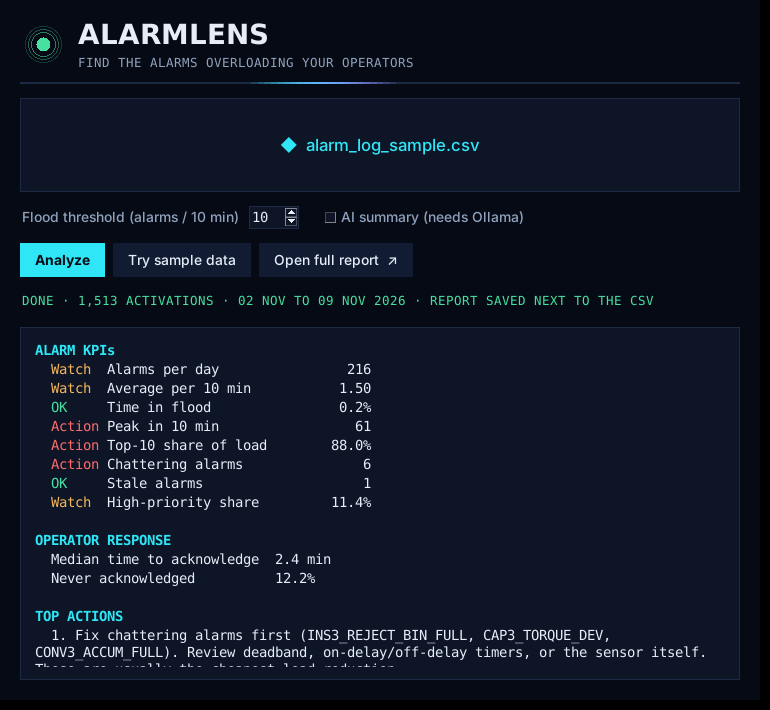
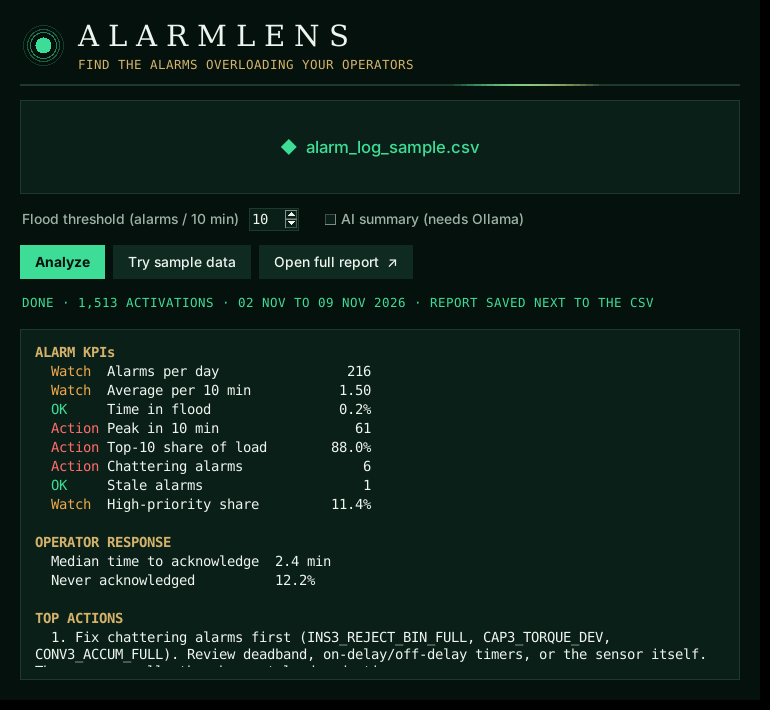
Emerald and gold identity for the window and the HTML report
Claude-Session: https://claude.ai/code/session_016ZLN4KnBmDmkNpjnwT8LnM

diff --git a/sample/sample_report.html b/sample/sample_report.html
@@ -2,9 +2,9 @@
 <html lang="en"><head><meta charset="utf-8"><meta name="viewport" content="width=device-width, initial-scale=1">
 <title>AlarmLens Report</title>
 <style>
-:root{--bg:#f5f7fa;--card:#fff;--line:#d9e0ea;--fg:#14202e;--mu:#5b6b80;--ac:#0a7e93;--ok:#1a7f4b;--warn:#a86400;--bad:#c2362b;
+:root{--bg:#f3f7f4;--card:#fff;--line:#d9e0ea;--fg:#14202e;--mu:#5b6b80;--ac:#0f7a4f;--ok:#1a7f4b;--warn:#a86400;--bad:#c2362b;
 --okb:#e3f4ea;--warnb:#fdf0dc;--badb:#fbe5e3;color-scheme:light}
-@media (prefers-color-scheme:dark){:root{--bg:#0d1420;--card:#141e2e;--line:#26354d;--fg:#e3e9f1;--mu:#8fa0b8;--ac:#2ec9e3;
+@media (prefers-color-scheme:dark){:root{--bg:#04110c;--card:#0a1f17;--line:#1d3a2d;--fg:#e3e9f1;--mu:#9db3a6;--ac:#3ddc97;
 --ok:#4cc985;--warn:#f0b04e;--bad:#f07468;--okb:#13301f;--warnb:#3a2a10;--badb:#3d1917;color-scheme:dark}}
 *{box-sizing:border-box}body{margin:0;background:var(--bg);color:var(--fg);font:15px/1.55 "Segoe UI",system-ui,sans-serif}
 .w{max-width:1000px;margin:0 auto;padding:28px 18px 48px;display:grid;gap:28px}

diff --git a/alarmlens/hud.py b/alarmlens/hud.py
@@ -6,17 +6,19 @@ import math
 import tkinter as tk
 import tkinter.font as tkfont
 
-# palette shared by the apps
-BG = "#060a14"
-PANEL = "#0d1526"
-PANEL2 = "#111c33"
-LINE = "#1c2a44"
-CYAN = "#2ee6f5"
-VIOLET = "#9b7bff"
-TEXT = "#e6edf7"
-MUTED = "#8fa2bd"
-OK = "#46e0a0"
-WARN = "#f5b65a"
+# palette shared by the apps: emerald and champagne gold on deep forest black
+BG = "#04110c"
+PANEL = "#0a1f17"
+PANEL2 = "#0f2a20"
+LINE = "#1d3a2d"
+CYAN = "#3ddc97"     # primary accent (emerald); name kept so existing code keeps working
+VIOLET = "#d4b26a"   # secondary accent (champagne gold)
+GOLD = VIOLET
+EMERALD = CYAN
+TEXT = "#eef4ef"
+MUTED = "#9db3a6"
+OK = "#3ddc97"
+WARN = "#f0a64a"
 ERR = "#ff6b6b"
 
 
@@ -61,7 +63,7 @@ def fade_in(root, ms=320):
 class Core(tk.Canvas):
     """Animated orb. States: idle (slow breathing), think (spinning arcs), listen (pulsing red), offline (dim)."""
 
-    COLORS = {"idle": CYAN, "think": VIOLET, "listen": ERR, "offline": "#5a6b85", "ok": OK}
+    COLORS = {"idle": CYAN, "think": VIOLET, "listen": ERR, "offline": "#4f6b5c", "ok": OK}
 
     def __init__(self, parent, size=44, bg=BG):
         super().__init__(parent, width=size, height=size, bg=bg, highlightthickness=0, bd=0)
@@ -125,7 +127,7 @@ class GlowButton(tk.Label):
 
     def __init__(self, parent, text, command, font, primary=False, bg_parent=BG, padx=14, pady=7):
         self.base = CYAN if primary else PANEL2
-        self.hover = "#7df9ff" if primary else blend(PANEL2, CYAN, 0.28)
+        self.hover = "#8ff0c2" if primary else blend(PANEL2, CYAN, 0.22)
         fg = BG if primary else TEXT
         super().__init__(parent, text=text, bg=self.base, fg=fg, font=font, padx=padx, pady=pady, cursor="hand2")
         self.command, self.enabled, self._t, self._job = command, True, 0.0, None
@@ -135,7 +137,7 @@ class GlowButton(tk.Label):
 
     def _click(self, _e):
         if self.enabled and self.command:
-            self.configure(bg=CYAN if self.base != CYAN else "#b9fcff")
+            self.configure(bg=CYAN if self.base != CYAN else "#c9f7df")
             self.after(90, lambda: self.configure(bg=blend(self.base, self.hover, self._t)))
             self.command()
 

diff --git a/alarmlens/gui.py b/alarmlens/gui.py
@@ -45,6 +45,7 @@ class AlarmLensApp:
         self.f_disp = hud.pick_font(root, "Bahnschrift", "Segoe UI Semibold", "DejaVu Sans")
         self.f_body = hud.pick_font(root, "Segoe UI", "Inter", "DejaVu Sans")
         self.f_mono = hud.pick_font(root, "Cascadia Mono", "Consolas", "DejaVu Sans Mono")
+        self.f_serif = hud.pick_font(root, "Constantia", "Georgia", "DejaVu Serif")
         self._build()
         root.after(60, self._poll)
 
@@ -57,8 +58,8 @@ class AlarmLensApp:
         self.core.pack(side="left")
         t = tk.Frame(head, bg=BG)
         t.pack(side="left", padx=(10, 0))
-        tk.Label(t, text="ALARMLENS", bg=BG, fg=FG, font=(self.f_disp, 20, "bold")).pack(anchor="w")
-        tk.Label(t, text="FIND THE ALARMS OVERLOADING YOUR OPERATORS", bg=BG, fg=MUTED,
+        tk.Label(t, text=" ".join("ALARMLENS"), bg=BG, fg=FG, font=(self.f_serif, 21)).pack(anchor="w")
+        tk.Label(t, text="FIND THE ALARMS OVERLOADING YOUR OPERATORS", bg=BG, fg=hud.GOLD,
                  font=(self.f_mono, 9)).pack(anchor="w")
         self.trace = hud.Trace(self.root, height=2)
         self.trace.pack(fill="x", padx=20)
@@ -115,7 +116,7 @@ class AlarmLensApp:
         self.out.pack(fill="both", expand=True)
         for k, c in STATUS_COLOR.items():
             self.out.tag_configure(k, foreground=c)
-        self.out.tag_configure("h", foreground=ACCENT, font=(self.f_mono, 10, "bold"))
+        self.out.tag_configure("h", foreground=hud.GOLD, font=(self.f_mono, 10, "bold"))
         self.out.tag_configure("m", foreground=MUTED)
 
     def _status(self, text, color=MUTED):

diff --git a/alarmlens/report.py b/alarmlens/report.py
@@ -94,9 +94,9 @@ def render(a, recommendations, ai_text=None, ai_note=None, source_name="alarm lo
 <html lang="en"><head><meta charset="utf-8"><meta name="viewport" content="width=device-width, initial-scale=1">
 <title>AlarmLens Report</title>
 <style>
-:root{{--bg:#f5f7fa;--card:#fff;--line:#d9e0ea;--fg:#14202e;--mu:#5b6b80;--ac:#0a7e93;--ok:#1a7f4b;--warn:#a86400;--bad:#c2362b;
+:root{{--bg:#f3f7f4;--card:#fff;--line:#d9e0ea;--fg:#14202e;--mu:#5b6b80;--ac:#0f7a4f;--ok:#1a7f4b;--warn:#a86400;--bad:#c2362b;
 --okb:#e3f4ea;--warnb:#fdf0dc;--badb:#fbe5e3;color-scheme:light}}
-@media (prefers-color-scheme:dark){{:root{{--bg:#0d1420;--card:#141e2e;--line:#26354d;--fg:#e3e9f1;--mu:#8fa0b8;--ac:#2ec9e3;
+@media (prefers-color-scheme:dark){{:root{{--bg:#04110c;--card:#0a1f17;--line:#1d3a2d;--fg:#e3e9f1;--mu:#9db3a6;--ac:#3ddc97;
 --ok:#4cc985;--warn:#f0b04e;--bad:#f07468;--okb:#13301f;--warnb:#3a2a10;--badb:#3d1917;color-scheme:dark}}}}
 *{{box-sizing:border-box}}body{{margin:0;background:var(--bg);color:var(--fg);font:15px/1.55 "Segoe UI",system-ui,sans-serif}}
 .w{{max-width:1000px;margin:0 auto;padding:28px 18px 48px;display:grid;gap:28px}}
